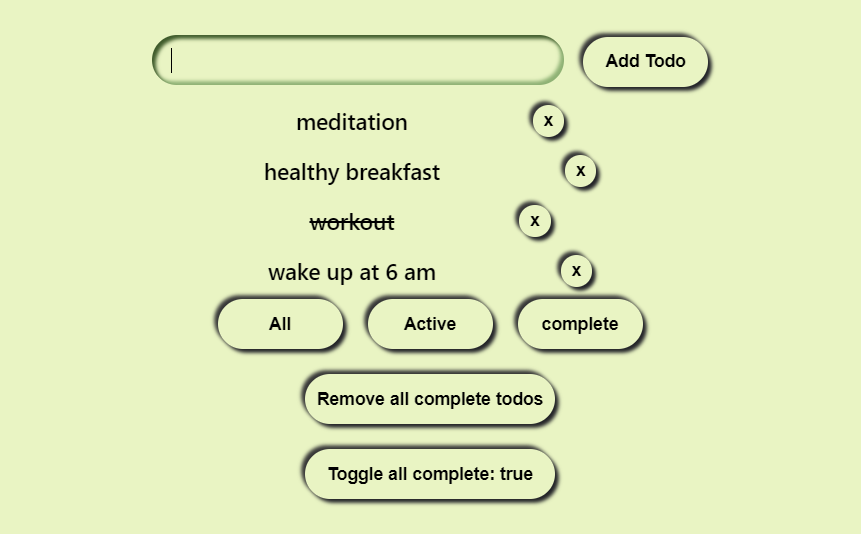
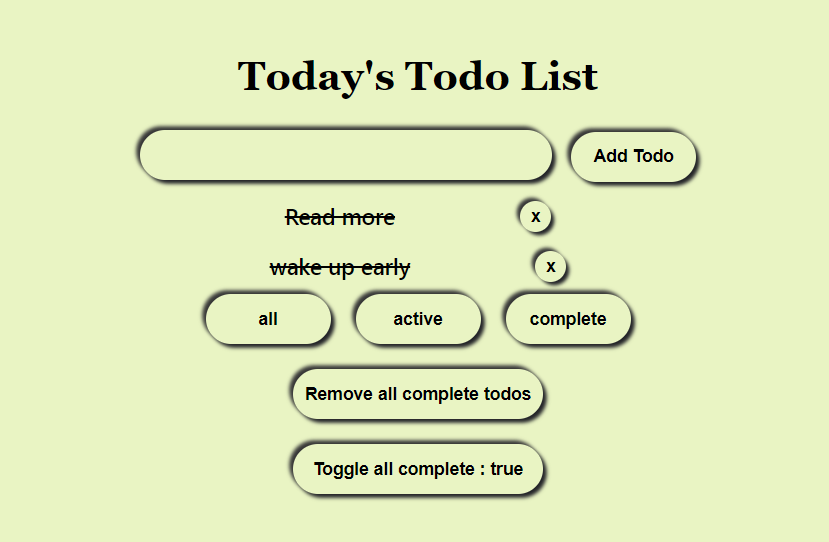
css modified

Changed region(s): [[0.1508, 0.0599, 0.8444, 0.9588], [0.3317, 0.3895, 0.4825, 0.4494], [0.1508, 0.2397, 0.1809, 0.3296]]

diff --git a/src/components/Todo List FunctionalComponent/TodoForm.js b/src/components/Todo List FunctionalComponent/TodoForm.js
@@ -8,7 +8,7 @@ function TodoForm(props){
         setText(
             e.target.value
         )
-     } 
+     }
      const handleSubmit = (e)=>{
         e.preventDefault();
         props.onSubmit({
@@ -19,10 +19,13 @@ function TodoForm(props){
        setText("")
      }
      return (
+        <>
+        <h1>Today's Todo List</h1>
         <form onSubmit={handleSubmit}>
             <input className='input-field' type="text" onChange={handleChange} value={text}/>
             <button className='btn' onClick={handleSubmit}>Add Todo</button>
         </form>
+        </>
     );
 }
 

diff --git a/src/index.js b/src/index.js
@@ -1,14 +1,8 @@
 import React from "react";
 import ReactDOM from "react-dom/client";
 import "./index.css";
-import reportWebVitals from "./reportWebVitals";
 import App from "./App";
 
 const container = document.getElementById("root");
 const root = ReactDOM.createRoot(container);
 root.render(<App />);
-
-// If you want to start measuring performance in your app, pass a function
-// to log results (for example: reportWebVitals(console.log))
-// or send to an analytics endpoint. Learn more: https://bit.ly/CRA-vitals
-reportWebVitals();

diff --git a/src/components/Todo List FunctionalComponent/TodoStyle.css b/src/components/Todo List FunctionalComponent/TodoStyle.css
@@ -10,6 +10,16 @@ body{
     align-items: center;
     margin-top: 80px;
   }
+  h1 {
+    margin-top: 60px ;
+    margin-bottom: 25px ;
+    font-family:'Gill Sans', 'Gill Sans MT', Calibri, 'Trebuchet MS', sans-serif;
+    color: #1b1e1c;
+  }
+  h1:hover{
+    color: black;
+    font-family:Georgia, 'Times New Roman', Times, serif;
+  }
   .input-field{
     width: 300px;
     height: 40px;
